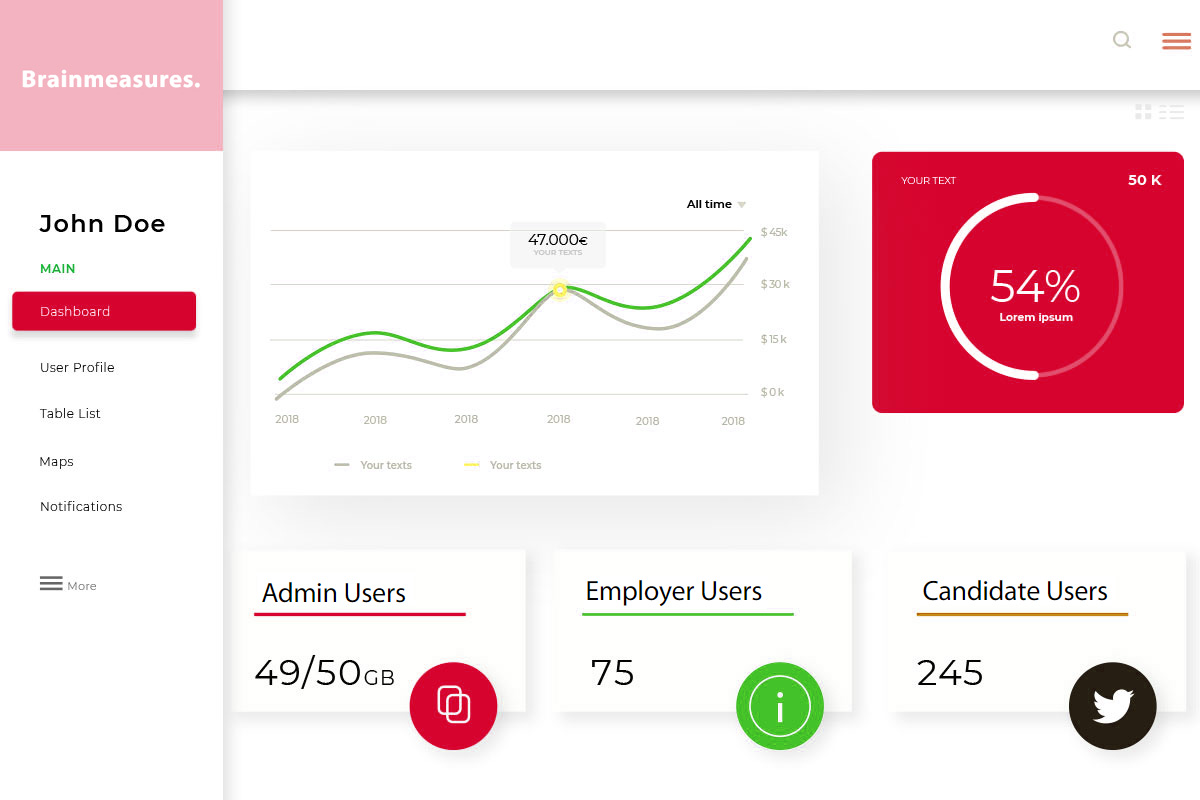
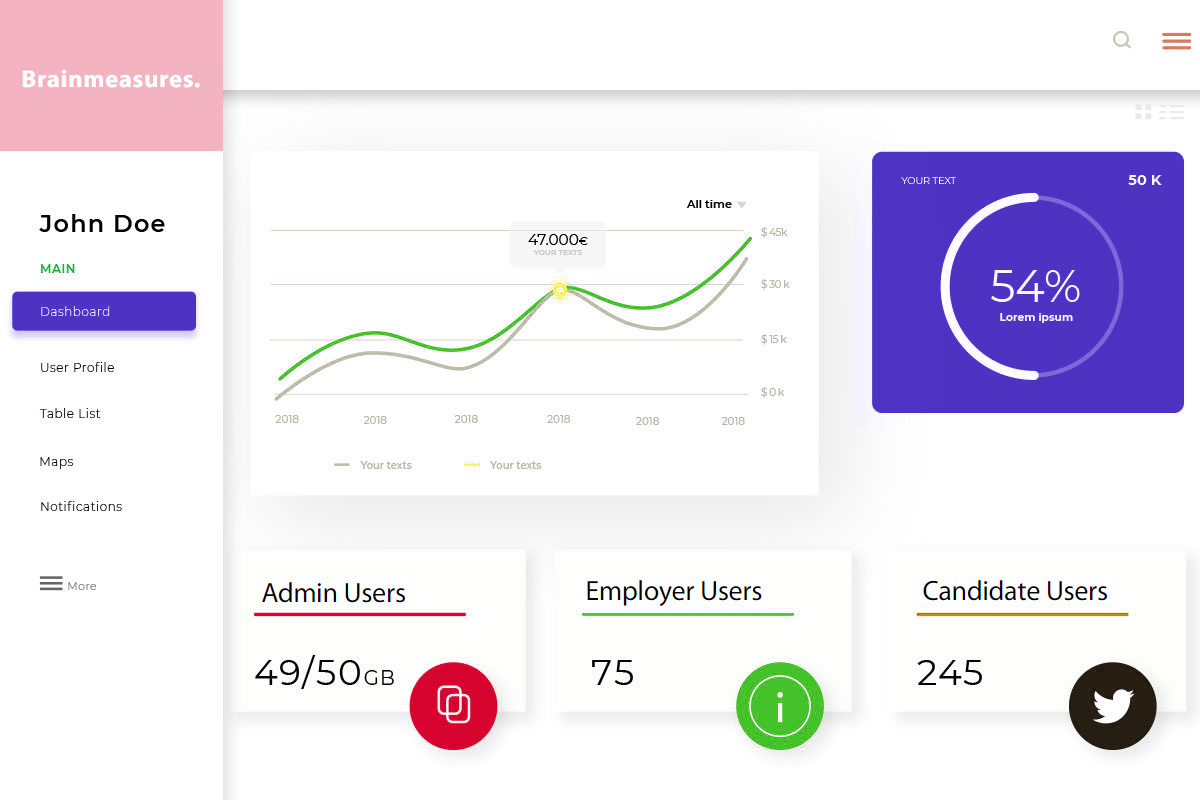
Changes
Changes

Changed region(s): [[0.7092, 0.1875, 0.9867, 0.5312], [0.0, 0.3438, 0.185, 0.4375]]

diff --git a/assets/css/style.css b/assets/css/style.css
@@ -5071,7 +5071,7 @@ h1.temaa {
 
 .flat-features .features-box:hover .item-shape,
 .flat-features .features-box.active .item-shape {
-    background-color: #e8505b;
+    background-color: #523be7;
 }
 
 .flat-features .features-box:hover .item-shape.item-shape2,
@@ -5130,8 +5130,8 @@ h1.temaa {
 .flat-features .box-content .post-readmore .read-more,
 .flat-latest .post-readmore .read-more.read-more{
     position: relative;
-    border: 1px solid #d6032e;
-    background-color: #d6032e;
+    border: 1px solid #523be7;
+    background-color: #523be7;
     color: #fff;
     line-height: 45px;
     width: 45px;
@@ -5168,7 +5168,7 @@ h1.temaa {
 .flat-features .box-content:hover .post-readmore .read-more, .flat-features .box-content.active .post-readmore .read-more {
     width: 144px;
 }
-.round-anim { content: ""; position: absolute; top: -10%; left: 0; width: 700px; height: 700px; border: 50px solid rgb(232 80 91 / 20%); border-radius: 50%; display: inline-block; z-index: -1; animation-name: zoom-fade; animation-duration: 5000ms; transform-origin: 70% 70%; animation-iteration-count: infinite; animation-timing-function: linear; }
+.round-anim { content: ""; position: absolute; top: -10%; left: 0; width: 700px; height: 700px; border: 50px solid #d60503; border-radius: 50%; display: inline-block; z-index: -1; animation-name: zoom-fade; animation-duration: 5000ms; transform-origin: 70% 70%; animation-iteration-count: infinite; animation-timing-function: linear; }
 .round-anim.right { right: -10%; left: inherit; }
 .round-anim.center { left: 50%; margin-left: -350px }
 
@@ -5195,7 +5195,7 @@ h1.temaa {
 .img-box img { width: 100%; }
 .title-bdr { position: relative; width: 150px; margin-bottom: 40px; }
 .text-center .title-bdr { margin-left: auto; margin-right: auto; }
-.left-bdr, .right-bdr { height: 6px; width: 60px; background-color: #e8505b; border-radius: 10px; position: absolute; }
+.left-bdr, .right-bdr { height: 6px; width: 60px; background-color: #5c3dec; border-radius: 10px; position: absolute; }
 .left-bdr { left: 0px; animation: left 2s infinite; }
 .right-bdr { right: 0px; animation: right 2s infinite; }@keyframes left {
   0%, 50%, 100% { width: 60px; }
@@ -5215,17 +5215,20 @@ h1.temaa {
     border-radius: 30px;
 }
 .btn.btn-theme {
-    background: #03d665;
+    background: #d10605;
     color: #ffffff;
+}
+#about .btn.btn-white {
+    background: #ffffff;
+    color: #322f55;
+    box-shadow: 0 8px 40px -5px rgb(9 31 67 / 10%);
+    margin-left: 10px;
 }
 #about .btn {
     padding: 12px 25px;
     font-weight: 600;
-    background: none;
-    color: #322f55;
     overflow: hidden;
-    border-radius: 7px;
-    border: none;
+    border-radius: 30px;
     position: relative;
     z-index: 9;
 }
@@ -5293,7 +5296,7 @@ h1.temaa {
     -webkit-transform: translate(0, 0);
             transform: translate(0, 0); } }
 .image-anim { position: relative; }
-.image-anim::before { content: ""; position: absolute; top: -20%; left: -10%; width: 550px; height: 550px; border: 50px solid #fadcde; border-radius: 50%; display: inline-block; z-index: -1; animation-name: zoom-fade; animation-duration: 5000ms; transform-origin: 70% 70%; animation-iteration-count: infinite; animation-timing-function: linear; }
+.image-anim::before { content: ""; position: absolute; top: -20%; left: -10%; width: 550px; height: 550px; border: 50px solid #5c3dec; border-radius: 50%; display: inline-block; z-index: -1; animation-name: zoom-fade; animation-duration: 5000ms; transform-origin: 70% 70%; animation-iteration-count: infinite; animation-timing-function: linear; }
 .list-icon li i {
     position: absolute;
     left: 0;

diff --git a/service/service/index.html b/service/service/index.html
@@ -76,6 +76,20 @@
 						<li><a class="dropdown-item" href="#">Idea</a></li>
 						<li><a class="dropdown-item" href="#">Formation</a></li>
 						<li><a class="dropdown-item" href="#">Planning</a></li>
+                          <li class="dropdown-submenu">
+                            <a class="dropsub dropdown-item dropdown-toggle" tabindex="-1" href="#">New dropdown <span class="caret"></span></a>
+                            <ul class="dropdown-menu">
+                              <li><a tabindex="-1" class="dropdown-item" href="#">2nd level dropdown</a></li>
+                              <li><a tabindex="-1" class="dropdown-item" href="#">2nd level dropdown</a></li>
+                              <!--<li class="dropdown-submenu">
+                                <a class="dropsub" href="#">Another dropdown <span class="caret"></span></a>
+                                <ul class="dropdown-menu">
+                                  <li><a href="#">3rd level dropdown</a></li>
+                                  <li><a href="#">3rd level dropdown</a></li>
+                                </ul>
+                              </li>-->
+                            </ul>
+                          </li> 
 					  </ul>
 					</li>
 					<li class="nav-item">
@@ -118,7 +132,7 @@
 			</nav>
 	 </header>
     
-<section class="hero bg-section bg-gradientt" id="hero" style="background-image: url(../../assets/img/public/bg-gradient.svg);">
+<section class="hero bg-section bg-gradientt" id="hero" style="background-image: url(../../assets/img/public/bg-another.png);">
             <div class="container">
             <div class="hero-cotainer text--center">
                 <div class="row">
@@ -289,7 +303,7 @@ More</span></a>
             <div class="right-bdr"></div>
           </div>
           <p>Powerfull Template customer service with our tools, hendrerit omittantur mel, es vidit Ius te omittantur meles vidit Ius te altera essent incorrupte.</p>
-        </div> <a class="btn btn-secondary btn-lg" href="#"><span>View All</span></a>
+        </div> <a class="btn btn-light btn-lg rounded-pill shadow" href="#"><span>View All</span></a>
       </div>
       <div class="col-lg-8 col-md-12 mt-5 mt-lg-0">
         <div class="row">
